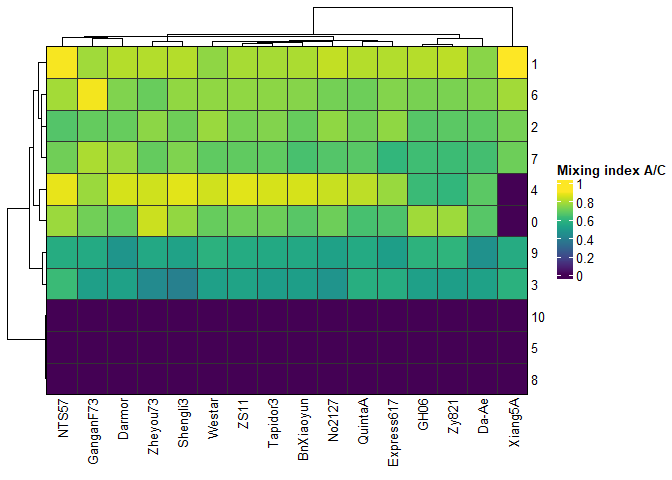
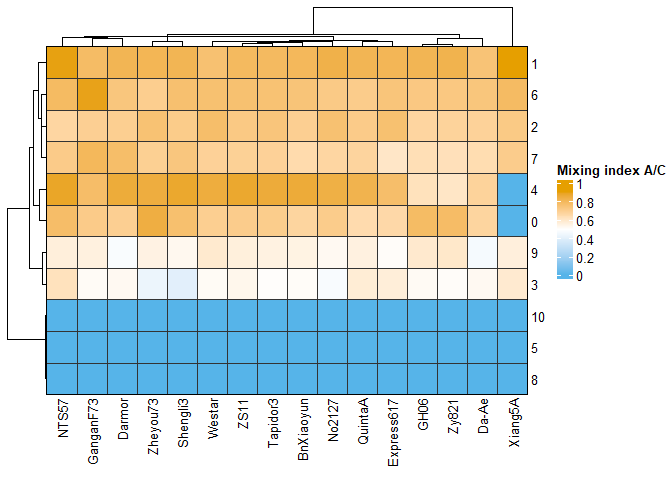
Communities A - C

diff --git a/analysis/bnapus16-genomes/Communities.md b/analysis/bnapus16-genomes/Communities.md
@@ -447,7 +447,10 @@ rownames(mix_mat_matrix) <- mix_mat$community_id
 
 ht <- Heatmap(
   mix_mat_matrix,
-  col = viridisLite::viridis(50),
+  col_fun <- circlize::colorRamp2(
+  c(min(mix_mat_matrix), mean(mix_mat_matrix), max(mix_mat_matrix)),
+  c("#56B4E9", "white", "#E69F00")
+  ),
   name = "Mixing index A/C",     # <--- THIS sets the legend title properly
   cluster_rows = TRUE,
   cluster_columns = TRUE,
